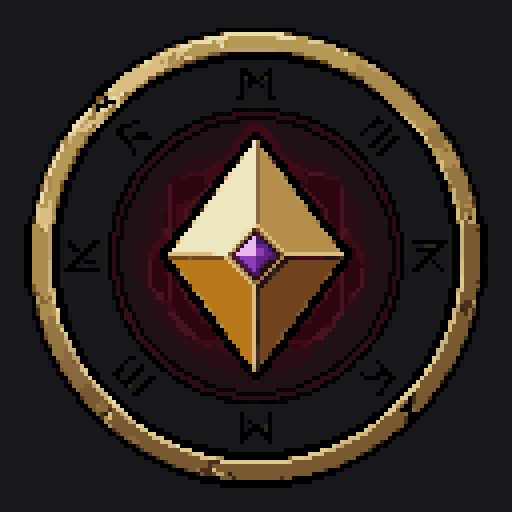
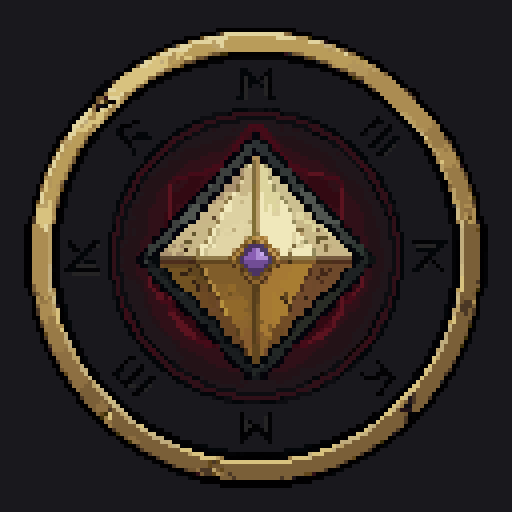
211e7bf2: Android assets update

diff --git a/android/icon-source/README.md b/android/icon-source/README.md
@@ -1,9 +1,12 @@
 # Arch Rogue Android launcher icon
 
-The approved launcher art is `arch_rogue_launcher_512.png`. It was created from
-PixelLab review job `ffa989d0-eb52-40d4-aa85-5c7e9e242ff2`, using the canonical
-relic from `assets/ui/logo/diamond_atlas.png` and the selected etched-rune
-medallion concept.
+The approved launcher art is `arch_rogue_launcher_512.png`. It combines the
+selected PixelLab etched-rune medallion from review job
+`40d8d1ca-a128-4821-982b-d3e8e8c2cb6a` with the canonical first relic frame from
+`assets/ui/logo/diamond_atlas.png`. The relic is uniformly scaled from its
+trimmed `70x72` source to `60x62`, preserving the title logo's aspect ratio.
+Pixels outside that centered relic overlay remain the original generated
+medallion.
 
 `arch_rogue_launcher_circle_128.png` preserves the generated circular cutout.
 `arch_rogue_launcher_foreground_512.png` is the safe-zone-scaled transparent

diff --git a/CHANGELOG.md b/CHANGELOG.md
@@ -4,7 +4,8 @@
 
 - Replaced the provisional Android launcher mark with a PixelLab-authored Arch
   Rogue relic medallion across legacy square, round, adaptive, and Android 13
-  themed-icon variants. The installed app, local APK/AAB outputs, public release
+  themed-icon variants. The center uses the canonical title-logo relic at its
+  original aspect ratio over the unchanged etched-rune medallion. The installed app, local APK/AAB outputs, public release
   assets, download site, and other product-facing labels now use `Arch Rogue`
   without treating the Odin implementation language as part of the game title.
   Release resource-path shortening is disabled because AAPT2 can emit paths that
